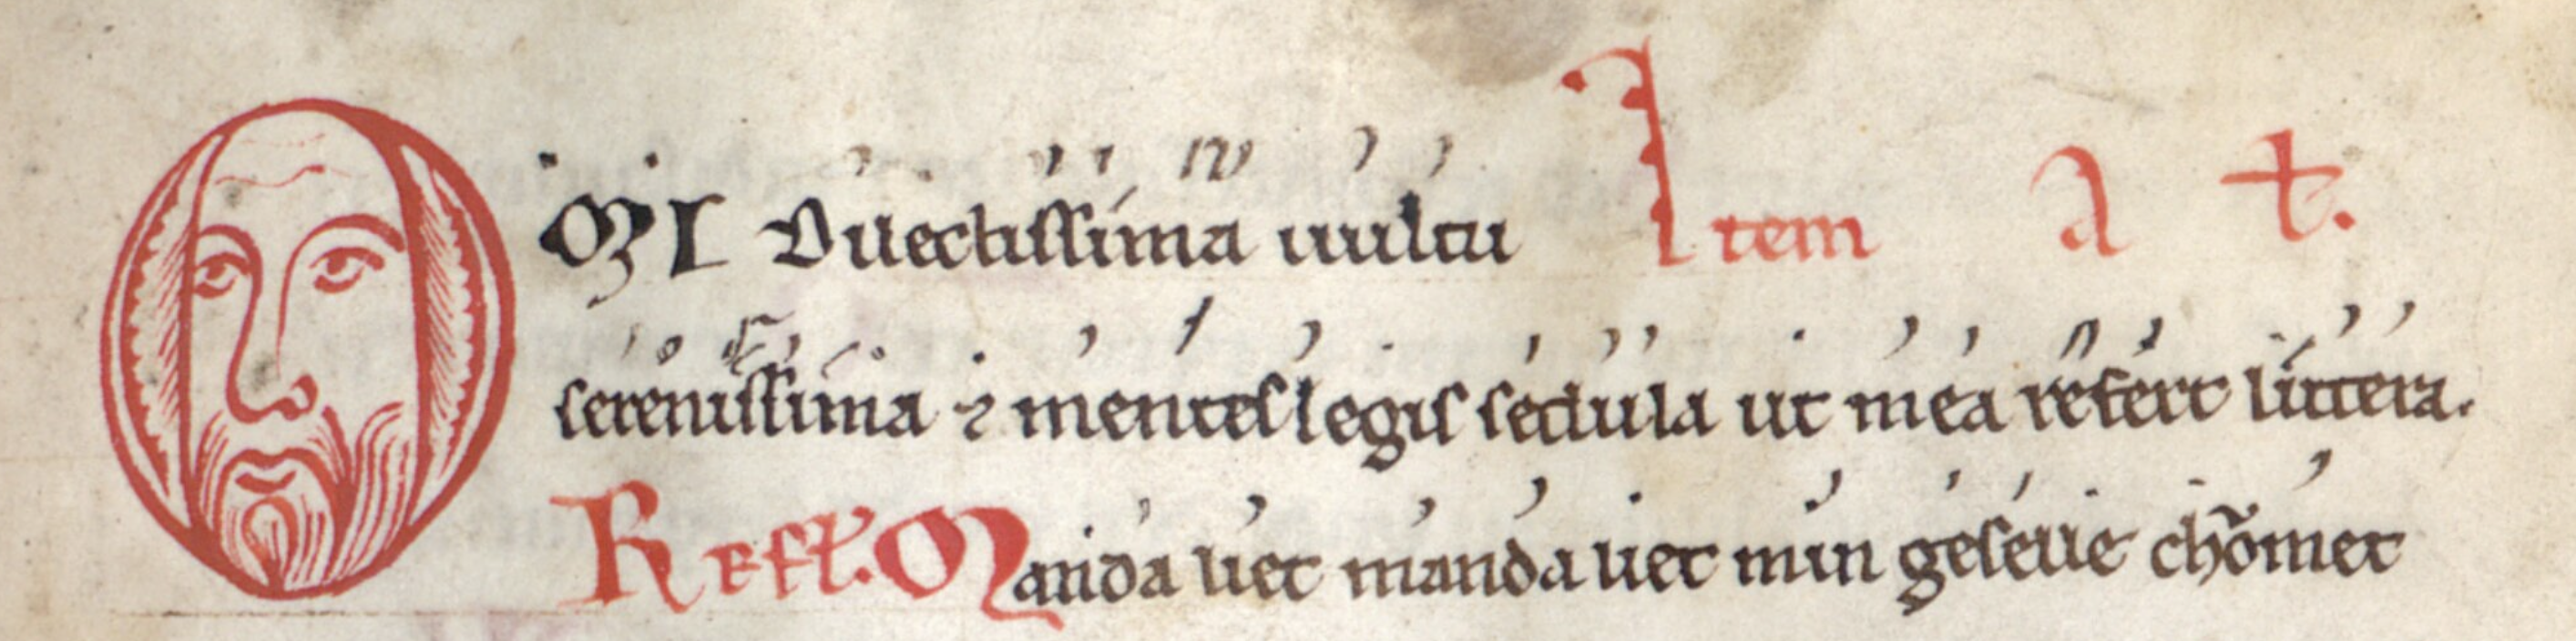
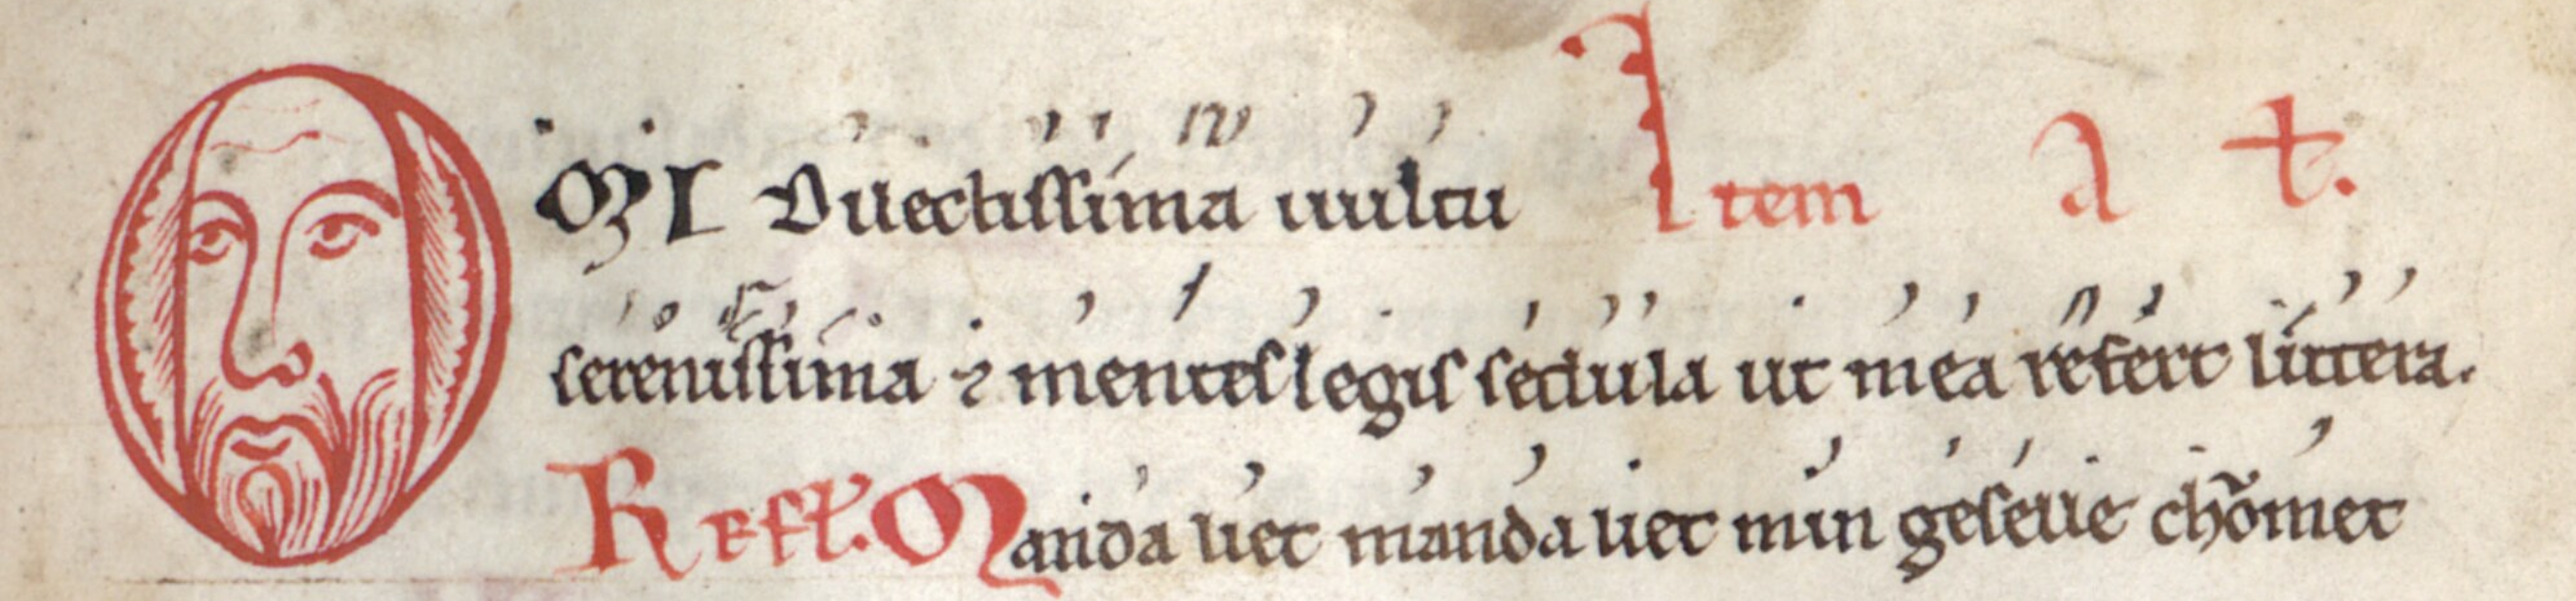
Small layout updates

diff --git a/item.html b/item.html
@@ -88,7 +88,7 @@
 
   <main style="display: flex; flex: 1;">
 
-    <div style="padding: 20px; width: 100%;">
+    <div style="width: 100%;">
       <div style="display: flex">
         <div id="metadata" style="flex: 2"></div>
         <script>